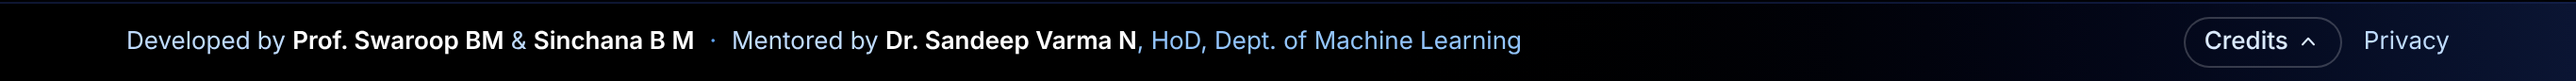
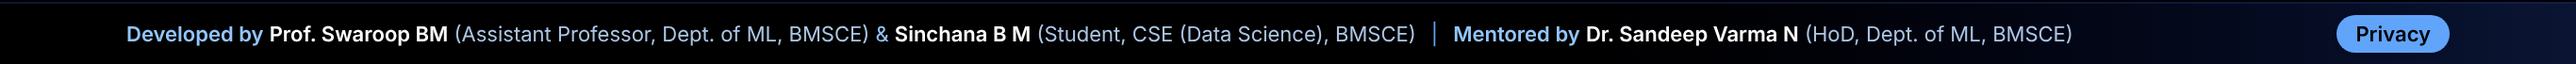
Footer: full developer details on one line, highlighted Privacy button
Shows each developer's and the mentor's role in the line itself instead of a
Credits panel, uses Dept. for the mentor, and makes Privacy a filled button.
One line on laptops and wider; phones and tablets wrap it.

Claude-Session: https://claude.ai/code/session_01KMfFL3HfMPUZZtSeiqRqXe

diff --git a/src/components/DeveloperCredit.tsx b/src/components/DeveloperCredit.tsx
@@ -1,23 +1,16 @@
-"use client";
-
 import Link from "next/link";
-import { useEffect, useId, useState } from "react";
 
-type Credit = { name: string; short: string; initials: string; role: string; href: string };
+type Credit = { name: string; role: string; href: string };
 
 const DEVELOPERS: Credit[] = [
   {
     name: "Prof. Swaroop BM",
-    short: "Swaroop BM",
-    initials: "SB",
-    role: "Assistant Professor, Dept. of Machine Learning, BMSCE",
+    role: "Assistant Professor, Dept. of ML",
     href: "https://bmsce.ac.in/home/facultyProfile/590/Swaroop-BM",
   },
   {
     name: "Sinchana B M",
-    short: "Sinchana B M",
-    initials: "SM",
-    role: "Student, Computer Science and Engineering (Data Science), BMSCE",
+    role: "Student, CSE (Data Science)",
     href: "https://www.linkedin.com/in/sinchana-b-m-aa698a32b",
   },
 ];
@@ -25,126 +18,54 @@ const DEVELOPERS: Credit[] = [
 /** Acknowledged for mentoring the project. */
 const MENTOR: Credit = {
   name: "Dr. Sandeep Varma N",
-  short: "Dr. Sandeep Varma N",
-  initials: "SV",
-  role: "HoD, Department of Machine Learning, BMSCE",
+  role: "HoD, Dept. of ML",
   href: "https://bmsce.ac.in/home/facultyProfile/156/Dr-Sandeep-Varma-N",
 };
 
-const KEY = "footer:credits-open";
-const NAME_LINK = "font-semibold text-white underline-offset-2 hover:underline";
+const LABEL = "font-semibold text-brand-300";
 
-/** One person in the open credits panel: initials, name, role, with a link to their profile. */
-function Card({ c, note }: { c: Credit; note?: string }) {
+/** A name linking to the person's profile, with their role after it. */
+function Person({ c }: { c: Credit }) {
   return (
-    <a
-      href={c.href}
-      target="_blank"
-      rel="noopener"
-      className="flex items-start gap-3 rounded-xl bg-white/5 p-3 ring-1 ring-white/10 transition hover:bg-white/10 hover:ring-brand-400"
-    >
-      <span className="grid h-9 w-9 shrink-0 place-items-center rounded-full bg-gradient-to-br from-brand-400 to-brand-700 text-xs font-semibold shadow-inner">
-        {c.initials}
+    <span>
+      <a href={c.href} target="_blank" rel="noopener" className="font-semibold text-white underline-offset-2 hover:underline">
+        {c.name}
+      </a>
+      <span className="text-brand-200/90">
+        {" "}
+        ({c.role}
+        <span className="lg:hidden xl:inline">, BMSCE</span>)
       </span>
-      <span className="min-w-0 leading-snug">
-        <span className="block text-sm font-semibold">{c.name}</span>
-        <span className="block text-xs text-brand-200/90">{c.role}</span>
-        {note && <span className="mt-1 block text-xs text-brand-100">{note}</span>}
-      </span>
-    </a>
+    </span>
   );
 }
 
 /**
- * The credits bar pinned to the bottom of every page: one slim line (two on a phone) that fits any screen, naming
- * the developers and the mentor. "Credits" opens a panel with each person's role and profile;
- * the choice is remembered on this device.
+ * The credits bar pinned to the bottom of every page: the developers with their roles, the
+ * mentor, and a Privacy button, on one line on a laptop or wider (a phone or tablet wraps it).
  */
 export default function DeveloperCredit() {
-  const [open, setOpen] = useState(false);
-  const panelId = useId();
-
-  useEffect(() => {
-    try {
-      if (localStorage.getItem(KEY) === "1") setOpen(true);
-    } catch {
-      // storage can be unavailable; the panel starts closed
-    }
-  }, []);
-
-  const toggle = () => {
-    setOpen((v) => {
-      try {
-        localStorage.setItem(KEY, v ? "0" : "1");
-      } catch {
-        // ignore
-      }
-      return !v;
-    });
-  };
-
   return (
     <footer className="sticky bottom-0 z-30 border-t border-white/10 bg-gradient-to-r from-ink via-brand-950 to-brand-800 text-white shadow-[0_-8px_24px_-12px_rgba(11,21,51,0.45)] print:hidden dark:border-brand-900/60 dark:from-black dark:via-black dark:to-brand-950">
-      {open && (
-        <div id={panelId} className="mx-auto max-h-[60vh] max-w-7xl overflow-y-auto border-b border-white/10 px-4 pt-3 pb-3 sm:px-6">
-          <div className="grid gap-3 md:grid-cols-3">
-            <div className="md:col-span-2">
-              <div className="mb-2 text-[11px] font-semibold tracking-widest text-brand-300 uppercase">Developed by</div>
-              <div className="grid gap-2 sm:grid-cols-2">
-                {DEVELOPERS.map((d) => (
-                  <Card key={d.name} c={d} />
-                ))}
-              </div>
-            </div>
-            <div>
-              <div className="mb-2 text-[11px] font-semibold tracking-widest text-brand-300 uppercase">Acknowledgement</div>
-              <Card c={MENTOR} note="With thanks for mentoring this project." />
-            </div>
-          </div>
-          <Link href="/privacy" className="mt-3 inline-block text-xs text-brand-200 underline underline-offset-2 hover:text-white sm:hidden">
-            Privacy
-          </Link>
+      <div className="mx-auto flex max-w-7xl items-center gap-3 px-4 py-1.5 text-[11px] sm:px-6 2xl:text-xs">
+        <div className="min-w-0 flex-1 leading-relaxed lg:overflow-x-auto lg:whitespace-nowrap lg:leading-normal lg:[scrollbar-width:none] lg:[&::-webkit-scrollbar]:hidden">
+          <span className={LABEL}>Developed by</span>{" "}
+          {DEVELOPERS.map((d, i) => (
+            <span key={d.name}>
+              {i > 0 && <span className="text-brand-300"> &amp; </span>}
+              <Person c={d} />
+            </span>
+          ))}
+          <span className="mx-2 hidden text-brand-400 lg:inline" aria-hidden>
+            |
+          </span>
+          <br className="lg:hidden" />
+          <span className={LABEL}>Mentored by</span> <Person c={MENTOR} />
         </div>
-      )}
-      <div className="mx-auto flex max-w-7xl items-center gap-3 px-4 py-2 text-xs sm:px-6 sm:text-[13px]">
-        {/* One line on wide screens, two on a phone; the full credits are a click away */}
-        <div className="flex min-w-0 flex-1 flex-col text-brand-200 md:flex-row md:items-center">
-          <span className="truncate">
-            Developed by{" "}
-            {DEVELOPERS.map((d, i) => (
-              <span key={d.name}>
-                {i > 0 && " & "}
-                <a href={d.href} target="_blank" rel="noopener" title={`${d.name}, ${d.role}`} className={NAME_LINK}>
-                  {d.name !== d.short && <span className="hidden sm:inline">{d.name.slice(0, d.name.length - d.short.length)}</span>}
-                  {d.short}
-                </a>
-              </span>
-            ))}
-          </span>
-          <span className="mx-2 hidden text-brand-400 md:inline" aria-hidden>
-            ·
-          </span>
-          <span className="truncate">
-            Mentored by{" "}
-            <a href={MENTOR.href} target="_blank" rel="noopener" title={`${MENTOR.name}, ${MENTOR.role}`} className={NAME_LINK}>
-              {MENTOR.short}
-            </a>
-            <span className="hidden text-brand-300 lg:inline">, HoD, Dept. of Machine Learning</span>
-          </span>
-        </div>
-        <button
-          type="button"
-          onClick={toggle}
-          aria-expanded={open}
-          aria-controls={panelId}
-          className="inline-flex shrink-0 items-center gap-1 rounded-full px-2.5 py-1 font-medium text-brand-100 ring-1 ring-white/20 transition hover:bg-white/10 hover:text-white"
+        <Link
+          href="/privacy"
+          className="shrink-0 rounded-full bg-white px-2.5 py-0.5 font-semibold text-brand-800 shadow-sm transition hover:bg-brand-100 dark:bg-brand-400 dark:text-black dark:hover:bg-brand-300"
         >
-          Credits
-          <svg viewBox="0 0 20 20" fill="currentColor" aria-hidden className={`h-3.5 w-3.5 transition ${open ? "" : "rotate-180"}`}>
-            <path fillRule="evenodd" d="M5.23 7.21a.75.75 0 0 1 1.06.02L10 11.17l3.71-3.94a.75.75 0 1 1 1.08 1.04l-4.25 4.5a.75.75 0 0 1-1.08 0l-4.25-4.5a.75.75 0 0 1 .02-1.06Z" clipRule="evenodd" />
-          </svg>
-        </button>
-        <Link href="/privacy" className="hidden shrink-0 text-brand-200 sm:inline underline-offset-2 hover:text-white hover:underline">
           Privacy
         </Link>
       </div>
